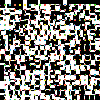
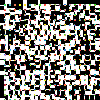
Updated canada.pymy1.png .

diff --git a/canada.py b/canada.py
@@ -59,7 +59,7 @@ for a in range(3):
             for o in range(20):
                 if(cortar):
                     break
-                for k in range(20):
+                for k in range(j,20):
                     if(j==0):
                         if(bon(getColor(outp,4,o,k)) and bon(getColor(outp,1,o,k)) and np.array_equal(getColor(outp,2,o,k),getColor(outp,3,i-1,j)) and not bon(getColor(outp,3,o,k))):
                             moverPieza(outp,o,k,i,j)
